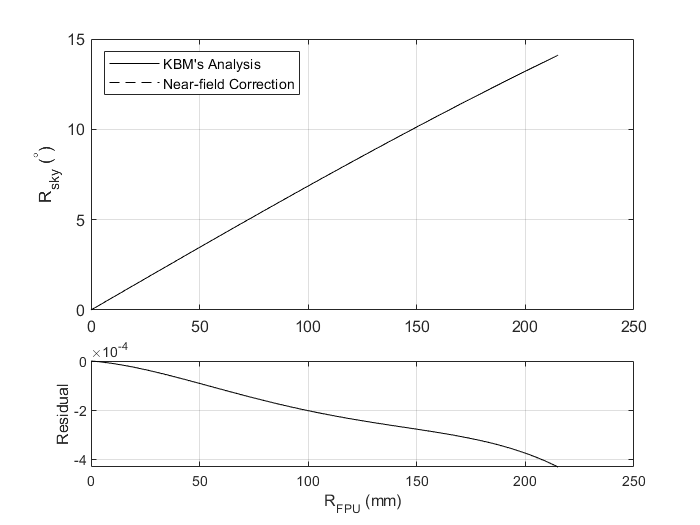
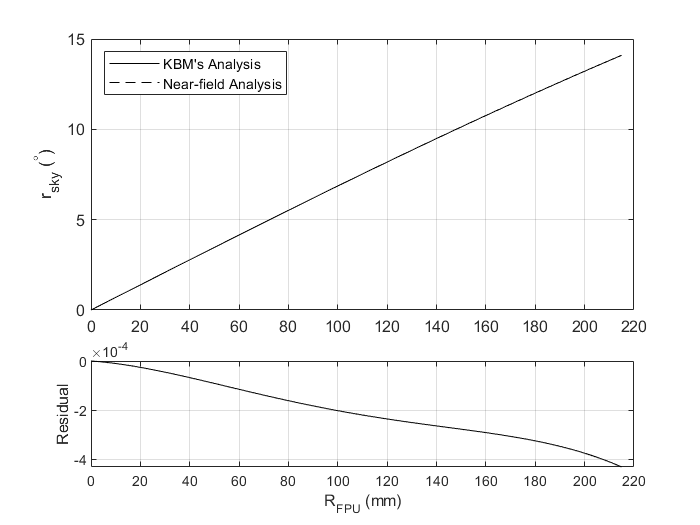
update to grasp posting

diff --git a/20200915_nfbm_grasp_compare/index.html b/20200915_nfbm_grasp_compare/index.html
@@ -96,20 +96,86 @@
     -->
     <h3>Converting Beam Steer from mm to degrees</h3>
     <p>In a previous posting, I defined the beam steer as a lateral offset between the beam center and aperture center ($r_{beam}-r_{apt}$) in NFBMs and offered previous results in units of mm. In practice, beam steer is more easily comparable to sims when converted from that lateral offset into an equivalent offset angle, $\theta_{bs}$, of the beam trajectory WRT to the focal plane normal. This is computed by using the ratio of <a href="https://en.wikipedia.org/wiki/Angular_aperture">angular apterture</a>, $a$, to the aperture radius, $D/2$</p>
-
-    $$\theta_{bs} = \frac{2a}{D}\left(r_{beam}-r_{apt}\right)$$
-
+    \begin{equation}
+    \theta_{bs} = \frac{2a}{D}\left(r_{beam}-r_{apt}\right)
+    \end{equation}
     <p>
         And $a$ can be substituted for the effective f-number, $N_f$:
     </p>
 
-
-    $$\theta_{bs} =\frac{2}{D_{apt}}\tan^{-1}{\left(\frac{1}{2\cdot\,N_f}\right)}\left(r_{beam}-r_{apt}\right)$$
-
+    \begin{equation}
+    \theta_{bs} =\frac{2}{D_{apt}}\tan^{-1}{\left(\frac{1}{2\cdot\,N_f}\right)}\left(r_{beam}-r_{apt}\right)
+    \end{equation}
     <p>Where, for BICEP3, $N_f=1.576$ and $D_{apt}=520\,\text{mm}$:</p>
-    $$\theta_{bs} = \frac{17.60^\circ}{260\,\text{mm}}\left(r_{beam}-r_{apt}\right)$$
 
+    \begin{equation}
+    \theta_{bs} = \frac{17.60^\circ}{260\,\text{mm}}\left(r_{beam}-r_{apt}\right)
+    \end{equation}
     <p>Realistically, the $N_f$ varies across the focal plane, but I've verified through Zemax that using the "working" $N_f$ is approximately good to within 4% across the whole focal plane.</p>
+
+
+
+    <h3>Near-Field Corrections to the Aperture Function</h3>
+    <p>We use a plate scale function to calculate the apparent aperture centers for each detector based on their on-sky pointing ($r,\,\theta$):
+
+        \begin{equation}
+        \begin{split}
+        &x_{apt} = -d \tan(r)\cos(\theta+\phi)+x_{0}\\
+        &y_{apt} = d \tan(r)\sin(\theta+\phi)+y_{0}
+        \end{split}
+        \end{equation}
+
+        and we had some intuition that this could be slightly non-linear in the near field due to parallax. To check this, the idea was to determine the physical x-y positions chief rays coming off the focal plane in the plane of the near field beam mapper using Zemax and then compare those values to those calculated by our plate-scale function using the same distance.
+    </p>
+    <p>
+        To verify that our model (and method) was correct, we first needed to verify that we could correctly calculate far-field pointing before moving on to the near field. We had a summer student (Kaylah McGowan from UofA) re-blaze the trail for converting detector locations on the focal plane ($R_{FP}$) into on-sky pointing ($r_{SKY}$) at the far field via Zemax models (see <a href="JBW2016"></a> for previous work).</p>
+    <p>In essence, her recipe was as follows:</p>
+    <ol>
+        <li>For a given model, create a dummy lens object at the very end of the lens system in "lens data".</li>
+        <li>Set the dummy lens object thickness to very far away (we set ours arbitrarily to 5e6 mm)</li>
+        <li>Using the "single raytrace" tool, record the z-cosine value after the dummy lens object for a series of distances on the focal plane (normalized in OptStudio from 0 to 1 for FP center and edge respectively).</li>
+        <li>Convert FP distances from normalized to mm and ray angles to degrees (using arccos) to produce an array of $R_{FP}$ vs. $r_{SKY}$.</li>
+        <li>Fit a 4th-order polynomial (with no constant) to the $R_{FP}$ vs. $r_{SKY}$ data to produce a function which converts radial distance on the focal plane to on-sky pointing WRT to boresight.</li>
+    </ol>
+
+    <p>Her results for a far-field case compared to those from JWB's posting are shown below. We find that Kaylah's results deviate, at most, on the order of 1 arcmin compared to JWB's, which we think are sufficiently close for our purposes.</p>
+
+    <figure>
+        <img src="figs/zemax_reanalysis.png"/>
+        <figcaption>
+
+        </figcaption>
+
+    </figure>
+
+
+    <p>Thanks to Kaylah, I was able to take this project one step further and calculate $r_{SKY}$ for the near-field case to see if we can detect significant deviations in pointing in the near field which would skew our beam steer results. I followed her recipe as described above but instead set the dummy lens object thickness to 366mm to match the near field mapper distance of 508mm (20 inches) from the aperture set in Paul's GRASP sims. For convenience, I wrapped steps 3 and 4 in her procedure in a Zemax macro: <a href="scripts/rfpu_to_rsky.ZPL">rfpu_to_rsky.ZPL</a></p>
+    <p>In the plot below, I compare the near-field results to the Kaylah's far-field results. We can see that the near-field pointing is nearly identical, deviating at most by ~2 arcseconds.</p>
+
+    <figure>
+        <img src="figs/zemax_nearfield_correction.png"/>
+        <figcaption>
+
+        </figcaption>
+    </figure>
+
+    <p>
+        I then computed the positions at which the rays intersect the mapper plane $R_{apt}$ (using <a href="scripts/rfpu_to_rsky.ZPL">rfpu_to_rsky.ZPL</a>) and compared them to the positions calculated by the plate scale function assuming $x_0=y_0=\phi=0$ and $d=508\,\text{mm}$. Because the plate scale function uses $r,\,\theta$ as inputs instead of $R_{FPU}$, I used the near-field 4th-order polynomial function described above to convert $R_{FPU}$ to $r_{SKY}$ before computing $R_{apt}$. Results from Zemax and the plate scale function are plotted below along with their residuals.
+
+    </p>
+
+    <figure>
+        <img src="figs/beam_steer_bias.png"/>
+        <figcaption>
+
+        </figcaption>
+    </figure>
+
+    <p>
+        In the plot above, we can clearly see that higher order effects cause deviations in the residuals up to $\sim0.6\,\text{mm}$ at the edge of the focal plane which amounts to $<0.05^\circ$ bias on beam steer.
+    </p>
+
+
 
 
     <h3>Beam Steer in GRASP sims</h3>
@@ -150,48 +216,30 @@
         </figcaption>
     </figure>
 
-    <p>
 
-    </p>
 
-    <h3>Near-Field Pointing Corrections</h3>
-    <p>We had some intuition that the optical pointing in the near field could be slightly different than that in the far field, but needed to verify that we could correctly calculate far-field pointing before moving on to the near field. We had a summer student (Kaylah McGowan from UofA) re-blaze the trail for converting detector locations on the focal plane ($R_{FP}$) into on-sky pointing ($R_{SKY}$) at the far field via Zemax models (see <a href="JBW2016"></a> for previous work).</p>
-    <p>In essence, her recipe was as follows:</p>
-    <ol>
-        <li>For a given model, create a dummy lens object at the very end of the lens system in "lens data".</li>
-        <li>Set the dummy lens object thickness to very far away (we set ours arbitrarily to 5e6 mm)</li>
-        <li>Using the "single raytrace" tool, record the z-cosine value after the dummy lens object for a series of distances on the focal plane (normalized in OptStudio from 0 to 1 for FP center and edge respectively).</li>
-        <li>Convert FP distances from normalized to mm and ray angles to degrees (using arccos) to produce an array of $R_{FP}$ vs. $R_{SKY}$.</li>
-        <li>Fit a 4th-order polynomial (with no constant) to the $R_{FP}$ vs. $R_{SKY}$ data to produce a function which converts radial distance on the focal plane to on-sky pointing WRT to boresight.</li>
-    </ol>
-
-    <p>Her results for a far-field case compared to those from JWB's posting are shown below. We find that Kaylah's results deviate, at most, on the order of 1 arcmin compared to JWB's, which we think are sufficiently close for our purposes.</p>
+    <h3>Beam Steer on real data</h3>
 
     <figure>
-        <img src="figs/zemax_reanalysis.png"/>
-        <figcaption>
-
-        </figcaption>
-
-    </figure>
-
-
-    <p>Thanks to Kaylah, I was able to take this project one step further and calculate $R_{SKY}$ for the near-field case to see if we can detect significant deviations in pointing in the near field which would skew our beam steer results. I followed her recipe as described above but instead set the dummy lens object thickness to 508 mm (20 inches) to match the near field mapper distance set in Paul's GRASP sims. For convenience, I wrapped steps 3 and 4 in her procedure in a Zemax macro: <a href="scripts/rfpu_to_rsky.ZPL">rfpu_to_rsky.ZPL</a></p>
-    <p>In the plot below, I compare the near-field results to the Kaylah's far-field results. We can see that the near-field pointing is nearly identical, deviating at most by ~2 arcseconds.</p>
-
-    <figure>
-        <img src="figs/zemax_nearfield_correction.png"/>
+        <img src="figs/beam_steer_jan2017.png" width=60%/>
         <figcaption>
 
         </figcaption>
     </figure>
-
 
 </section>
 
 <!--
 <section>
     <h2>Edge Taper</h2>
+    <h3>NFBM/Grasp profiles</h3>
+    <p>
+        <ul>
+    <li>Acquire an uncertainty of grasp profiles and real (well-behaved) beams.</li>
+    <li>Make histograms to show min/max/avg and 10th/90th/50th percentiles.</li>
+</ul>
+
+    </p>
     <ul>
         <li>Applying debias to measured beam maps</li>
         <li>Absolute min/max values can be thrown off by statistical fluctuations, so I added a "quantile" page showing 10th-percentile, 90th-percentile, and median in lieu of min,max, and avg respectively.</li>
@@ -221,6 +269,7 @@
 
 </section>
 -->
+
 
 <section>
     <h2>Analysis Pipeline</h2>
